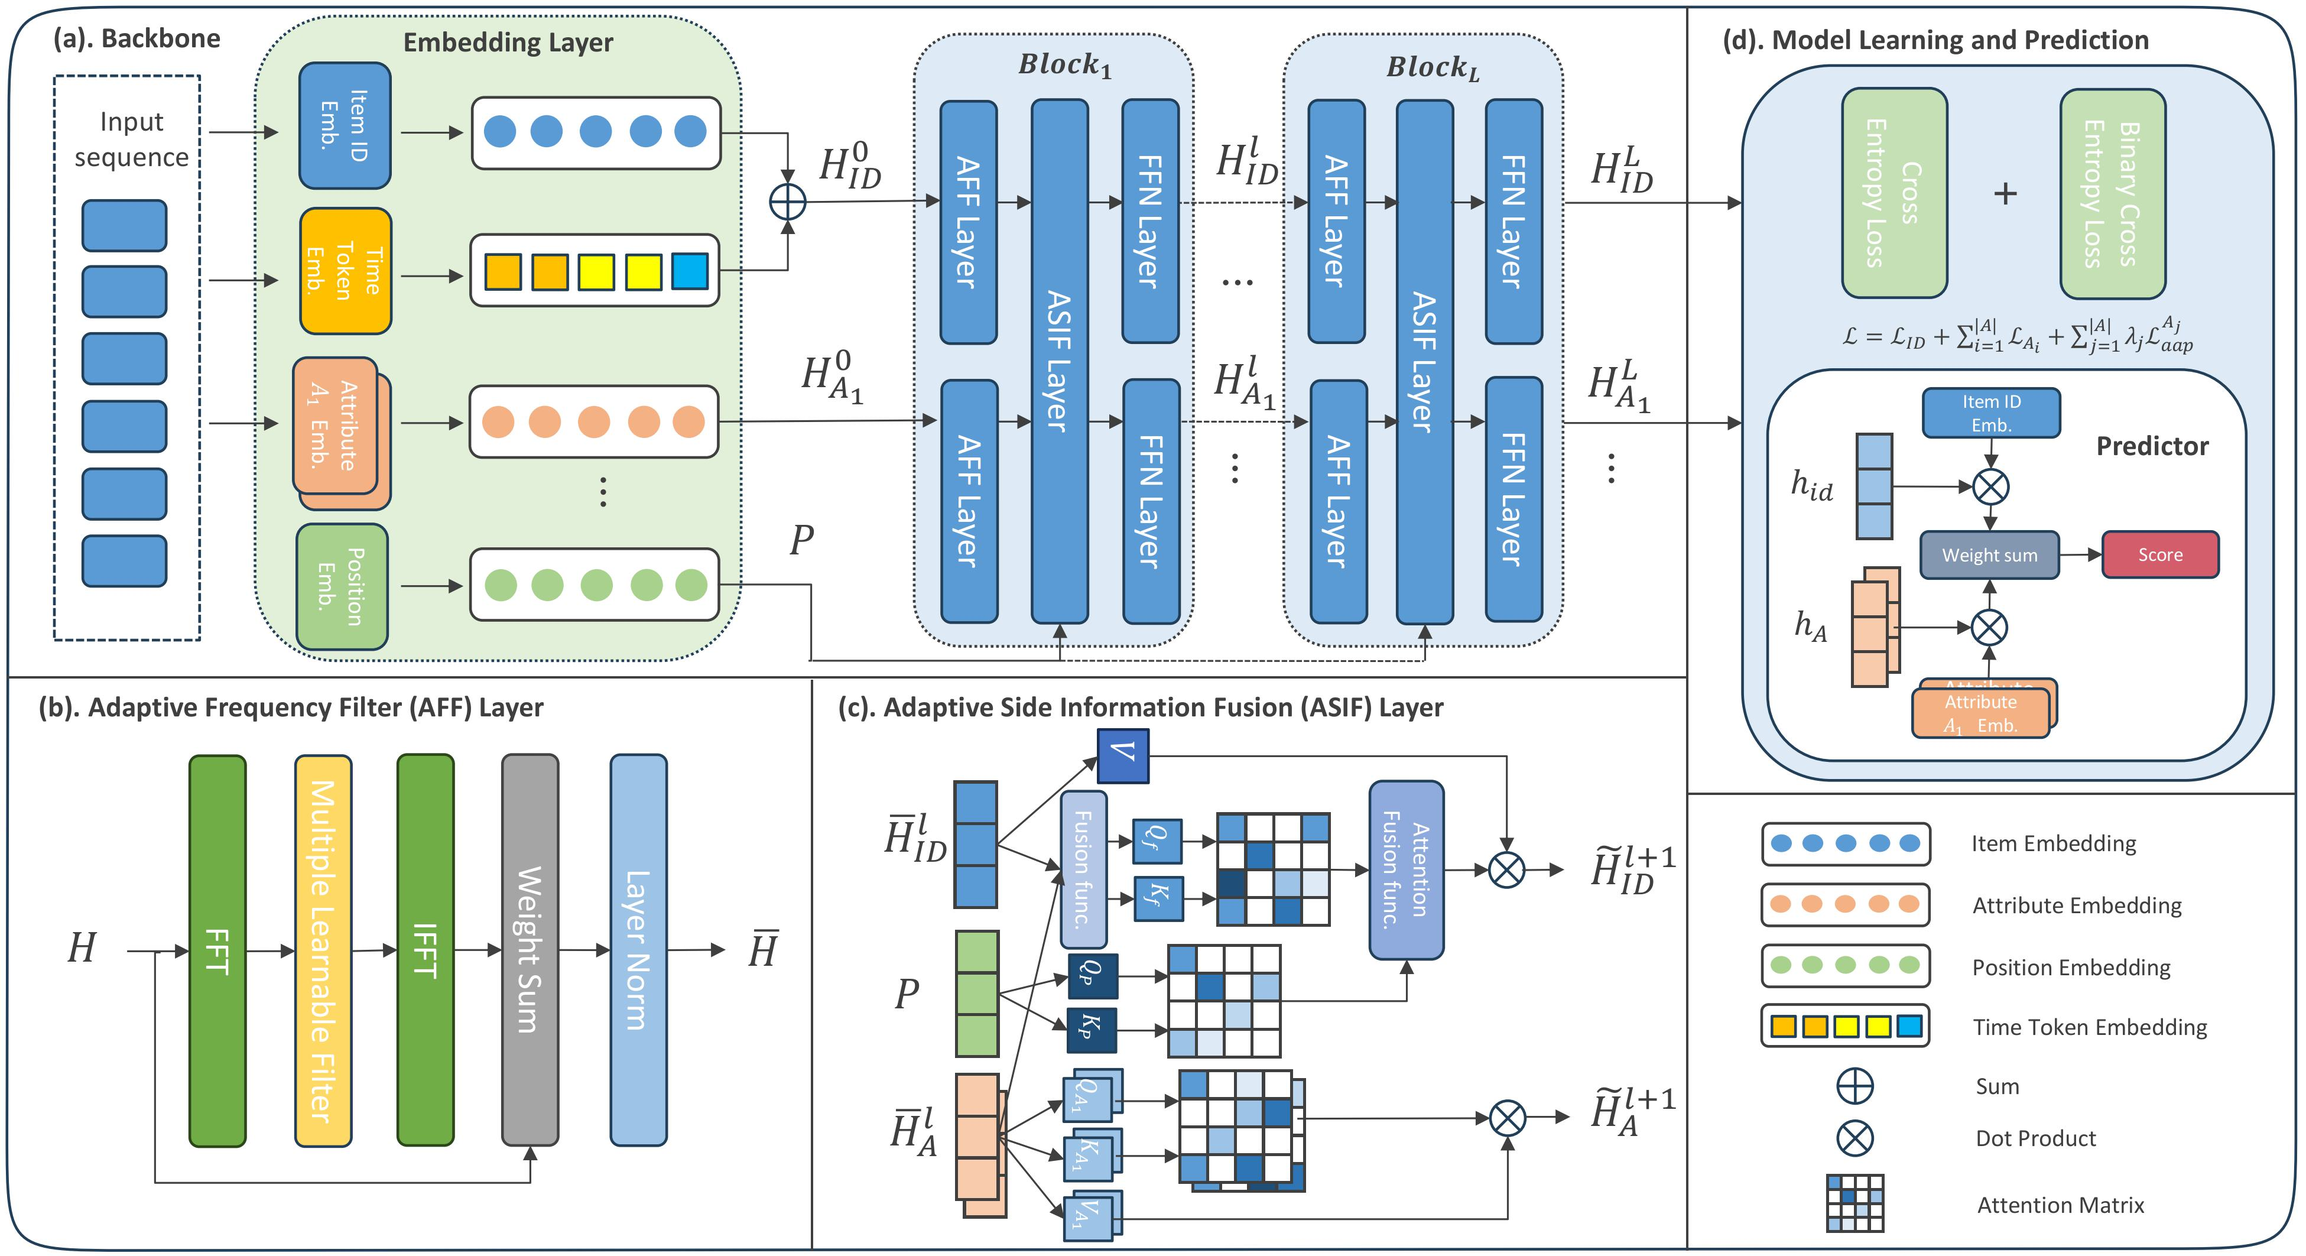
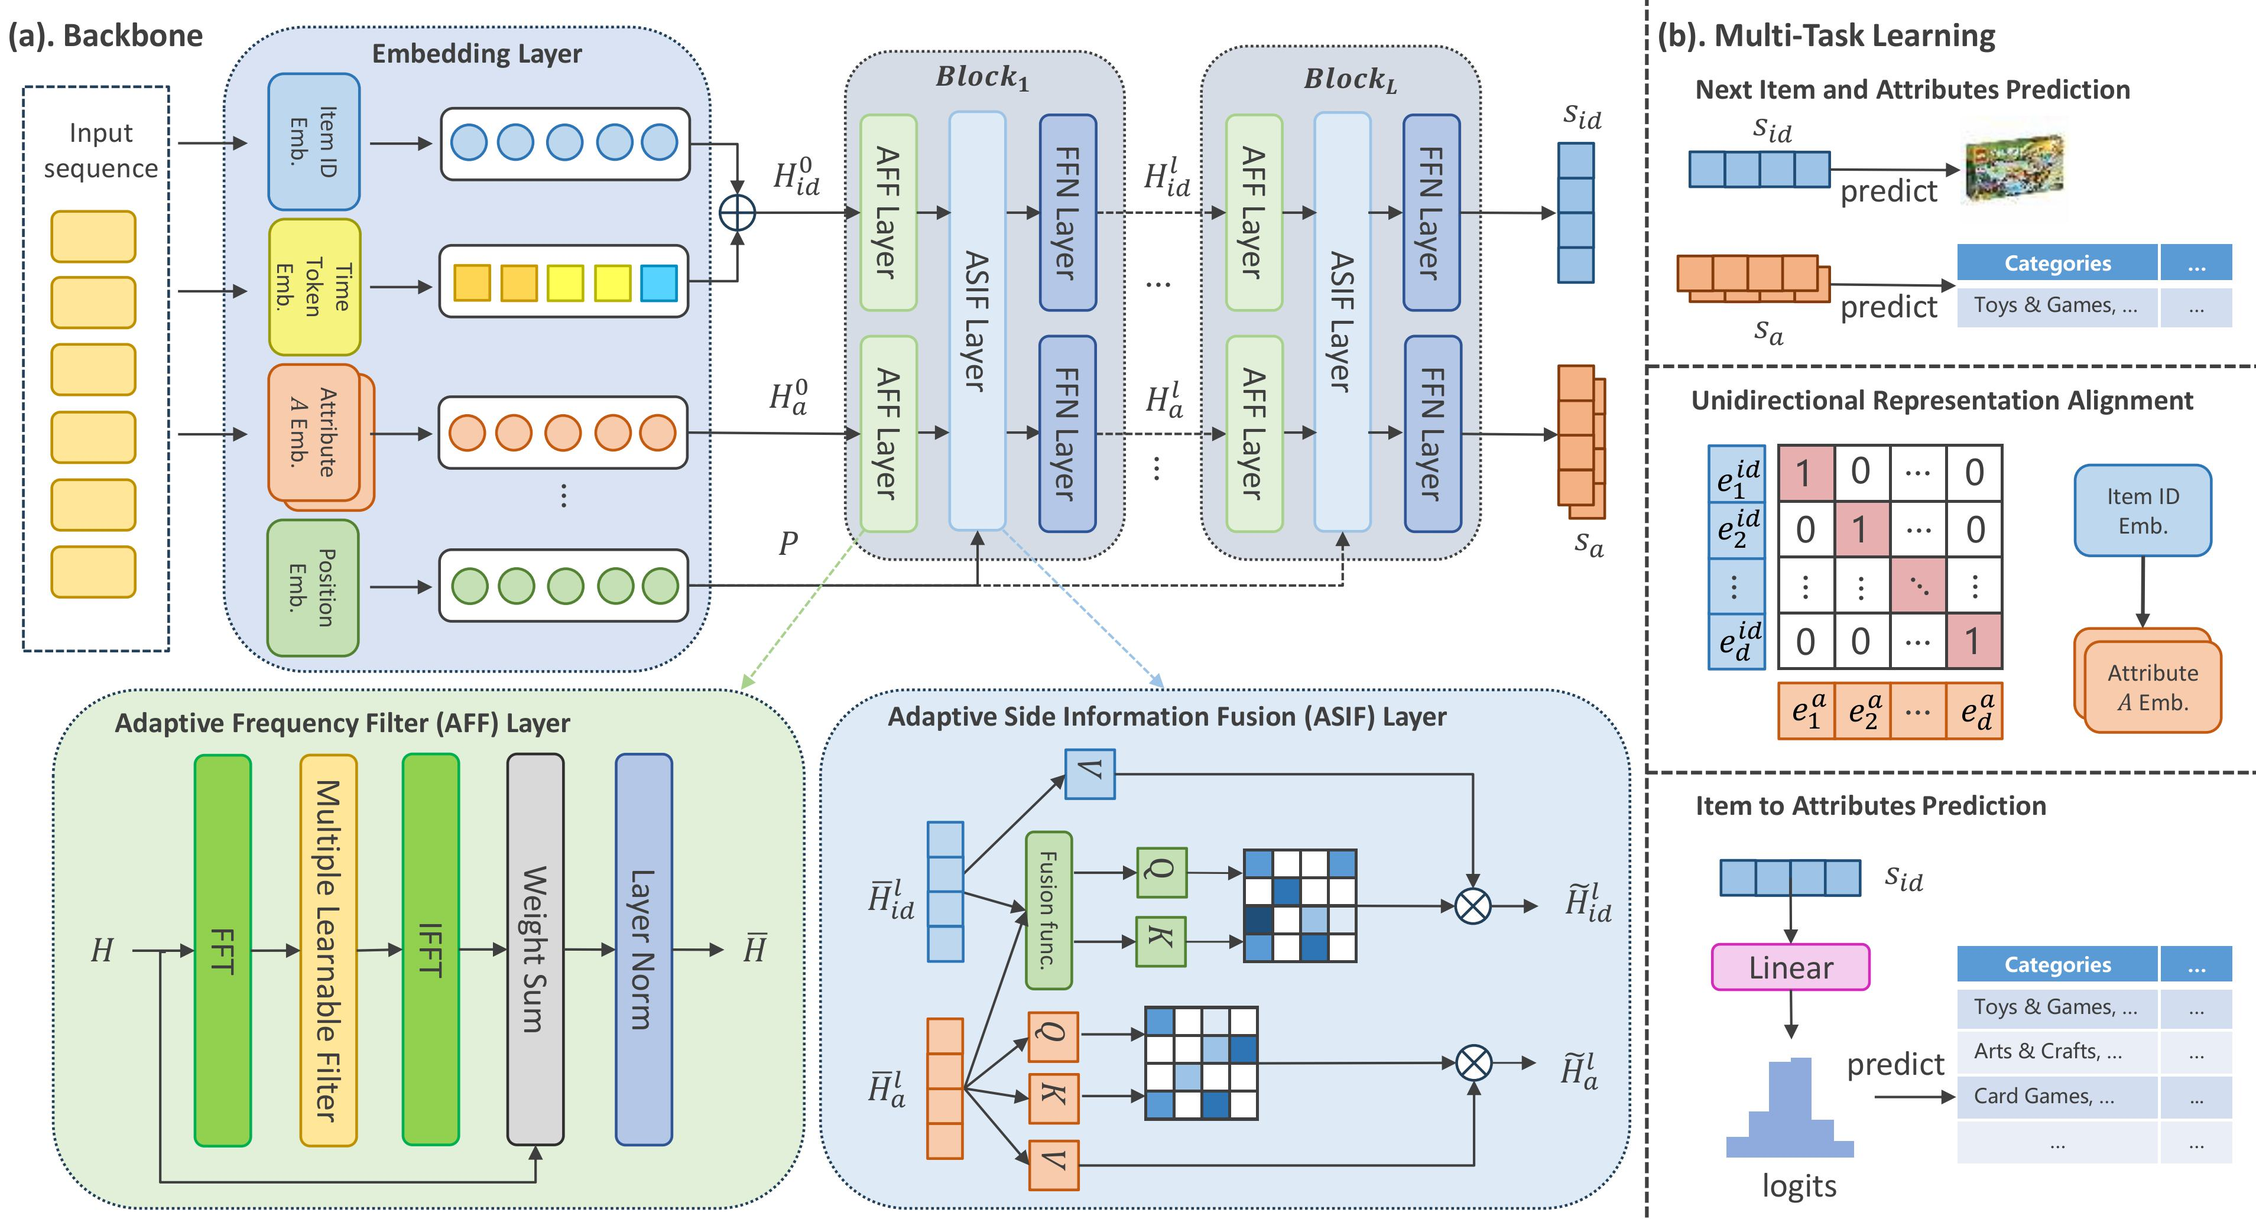
update

diff --git a/recbole/model/sequential_recommender/tasif.py b/recbole/model/sequential_recommender/tasif.py
@@ -59,19 +59,7 @@ class FilterLayer(nn.Module):
         return hidden_states
     
 class TASIFMultiHeadAttention(nn.Module):
-    """
-    DIF Multi-head Self-attention layers, a attention score dropout layer is introduced.
-
-    Args:
-        input_tensor (torch.Tensor): the input of the multi-head self-attention layer
-        attention_mask (torch.Tensor): the attention mask for input tensor
-
-    Returns:
-        hidden_states (torch.Tensor): the output of the multi-head self-attention layer
-
-    """
-
-    def __init__(self, n_heads, hidden_size,attribute_hidden_size,feat_num, hidden_dropout_prob, attn_dropout_prob, layer_norm_eps, attn_fusion_type, emb_fusion_type, max_len):
+    def __init__(self, n_heads, hidden_size,attribute_hidden_size,feat_num, hidden_dropout_prob, attn_dropout_prob, layer_norm_eps, fusion_type, max_len):
         super(TASIFMultiHeadAttention, self).__init__()
         if hidden_size % n_heads != 0:
             raise ValueError(
@@ -84,38 +72,23 @@ class TASIFMultiHeadAttention(nn.Module):
         self.all_head_size = self.num_attention_heads * self.attention_head_size
         self.attribute_attention_head_size = [int(_ / n_heads) for _ in attribute_hidden_size]
         self.attribute_all_head_size = [self.num_attention_heads * _ for _ in self.attribute_attention_head_size]
-        self.attn_fusion_type = attn_fusion_type
         self.max_len = max_len
-        self.emb_fusion_type = emb_fusion_type
+        self.fusion_type = fusion_type
 
         self.value = nn.Linear(hidden_size, self.all_head_size)
-
-        self.query_p = nn.Linear(hidden_size, self.all_head_size)
-        self.key_p = nn.Linear(hidden_size, self.all_head_size)
-
-
-        if self.emb_fusion_type == 'concat':
-            self.query_f = nn.Linear(hidden_size*(feat_num+1), self.all_head_size)
-            self.key_f = nn.Linear(hidden_size*(feat_num+1), self.all_head_size)
-            self.value_f = nn.Linear(hidden_size*(feat_num+1), self.all_head_size)
-        else:
-            self.query_f = nn.Linear(hidden_size, self.all_head_size)
-            self.key_f = nn.Linear(hidden_size, self.all_head_size)
-            self.value_f = nn.Linear(hidden_size, self.all_head_size)
+        self.query_f = nn.Linear(hidden_size, self.all_head_size)
+        self.key_f = nn.Linear(hidden_size, self.all_head_size)
 
         self.feat_num = feat_num
         self.query_layers = nn.ModuleList([copy.deepcopy(nn.Linear(attribute_hidden_size[_], self.attribute_all_head_size[_])) for _ in range(self.feat_num)])
         self.key_layers = nn.ModuleList([copy.deepcopy(nn.Linear(attribute_hidden_size[_], self.attribute_all_head_size[_])) for _ in range(self.feat_num)])
         self.value_layers = nn.ModuleList([copy.deepcopy(nn.Linear(attribute_hidden_size[_], self.attribute_all_head_size[_])) for _ in range(self.feat_num)])
-
-        self.tensor_fusion_layer = nn.Linear(hidden_size * (1 + self.feat_num), hidden_size)
-        if self.emb_fusion_type == 'gate':
+        
+        if self.fusion_type == 'concat':
+            self.tensor_fusion_layer = nn.Linear(hidden_size * (2 + self.feat_num), hidden_size)
+        elif self.fusion_type == 'gate':
             self.tensor_fusion_layer = GatingFusor(hidden_size)
 
-        if self.attn_fusion_type == 'concat':
-            self.fusion_layer = nn.Linear(self.max_len*2, self.max_len)
-        elif self.attn_fusion_type == 'gate':
-            self.fusion_layer = VanillaAttention(self.max_len,self.max_len)
         self.attn_dropout = nn.Dropout(attn_dropout_prob)
 
         self.dense = nn.Linear(hidden_size, hidden_size)
@@ -159,26 +132,21 @@ class TASIFMultiHeadAttention(nn.Module):
     def forward(self, input_tensor, attribute_table, position_embedding, attention_mask):
         item_value_layer = self.transpose_for_scores(self.value(input_tensor))
 
-        pos_query_layer = self.transpose_for_scores(self.query_p(position_embedding))
-        pos_key_layer = self.transpose_for_scores(self.key_p(position_embedding))
-
-        if self.emb_fusion_type == 'sum':
-            fusion_tensor = input_tensor + torch.sum(torch.cat(attribute_table, dim=-2), dim=-2)
-        elif self.emb_fusion_type == 'gate':
-            attr_tensor = torch.cat(attribute_table, dim=-1)
-            fusion_tensor = torch.cat([input_tensor.unsqueeze(-2), attr_tensor], dim=-2)
-            fusion_tensor = self.tensor_fusion_layer(fusion_tensor)
-        else:
+        if self.fusion_type == 'sum':
+            fusion_tensor = input_tensor + torch.sum(torch.cat(attribute_table, dim=-2), dim=-2) + position_embedding
+        elif self.fusion_type == 'concat':
             attr_tensor = torch.cat(attribute_table, dim=-1).squeeze(-2)
-            fusion_tensor = torch.cat((input_tensor, attr_tensor), dim=-1)
-            if self.emb_fusion_type == 'linear':
-                fusion_tensor = self.tensor_fusion_layer(fusion_tensor)
+            fusion_tensor = torch.cat((input_tensor, attr_tensor, position_embedding), dim=-1)
+            fusion_tensor = self.tensor_fusion_layer(fusion_tensor)
+        elif self.fusion_type == 'gate':
+            attr_tensor = torch.cat(attribute_table, dim=-2)
+            fusion_tensor = torch.cat([input_tensor.unsqueeze(-2), attr_tensor, position_embedding.unsqueeze(-2)], dim=-2)
+            fusion_tensor = self.tensor_fusion_layer(fusion_tensor)
 
         fusion_query_layer = self.transpose_for_scores(self.query_f(fusion_tensor))
         fusion_key_layer = self.transpose_for_scores(self.key_f(fusion_tensor))
 
         fusion_attention_scores = torch.matmul(fusion_query_layer, fusion_key_layer.transpose(-1, -2))
-        pos_scores = torch.matmul(pos_query_layer, pos_key_layer.transpose(-1, -2))
 
         attribute_hidden_states_table = []
         for i, (attribute_query, attribute_key, attribute_value, attr_dense, attr_layernorm) in enumerate(
@@ -191,40 +159,17 @@ class TASIFMultiHeadAttention(nn.Module):
             attribute_hidden_states = self.compute(attribute_tensor, attribute_value_layer, attribute_attention_scores, attention_mask, attr_dense, attr_layernorm)
             attribute_hidden_states_table.append(attribute_hidden_states.unsqueeze(-2))
 
-        if self.attn_fusion_type == 'sum':
-            attention_scores = fusion_attention_scores + pos_scores
-        elif self.attn_fusion_type == 'concat':
-            attention_scores = torch.cat([fusion_attention_scores, pos_scores], dim=-1)
-            attention_scores = self.fusion_layer(attention_scores)
-        elif self.attn_fusion_type == 'gate':
-            attention_scores = torch.cat([fusion_attention_scores.unsqueeze(-2), pos_scores.unsqueeze(-2)], dim=-2)
-            attention_scores,_ = self.fusion_layer(attention_scores)
-
-        item_hidden_states = self.compute(input_tensor, item_value_layer, attention_scores, attention_mask, self.dense, self.LayerNorm)
-
+        item_hidden_states = self.compute(input_tensor, item_value_layer, fusion_attention_scores, attention_mask, self.dense, self.LayerNorm)
         return item_hidden_states, attribute_hidden_states_table
 
 class TASIFTransformerLayer(nn.Module):
-    """
-    One decoupled transformer layer consists of a decoupled multi-head self-attention layer and a point-wise feed-forward layer.
-
-    Args:
-        hidden_states (torch.Tensor): the input of the multi-head self-attention sublayer
-        attention_mask (torch.Tensor): the attention mask for the multi-head self-attention sublayer
-
-    Returns:
-        feedforward_output (torch.Tensor): The output of the point-wise feed-forward sublayer,
-                                           is the output of the transformer layer.
-
-    """
-
     def __init__(
         self, n_heads, hidden_size,attribute_hidden_size,feat_num, intermediate_size, hidden_dropout_prob, attn_dropout_prob, hidden_act,
-        layer_norm_eps, attn_fusion_type, emb_fusion_type, max_len, filter_weight, filter_dropout_prob 
+        layer_norm_eps, fusion_type, max_len, filter_weight, filter_dropout_prob 
     ):
         super(TASIFTransformerLayer, self).__init__()
         self.multi_head_attention = TASIFMultiHeadAttention(
-            n_heads, hidden_size, attribute_hidden_size, feat_num, hidden_dropout_prob, attn_dropout_prob, layer_norm_eps, attn_fusion_type, emb_fusion_type, max_len,
+            n_heads, hidden_size, attribute_hidden_size, feat_num, hidden_dropout_prob, attn_dropout_prob, layer_norm_eps, fusion_type, max_len,
         )
         self.feed_forward = FeedForward(hidden_size, intermediate_size, hidden_dropout_prob, hidden_act, layer_norm_eps)
         self.attr_feed_forward = nn.ModuleList([copy.deepcopy(FeedForward(attribute_hidden_size[_], intermediate_size, hidden_dropout_prob, hidden_act, layer_norm_eps)) for _ in range(feat_num)])
@@ -245,24 +190,6 @@ class TASIFTransformerLayer(nn.Module):
         return feedforward_output, feedforward_attribute_output
 
 class TASIFTransformerEncoder(nn.Module):
-    r""" One decoupled TransformerEncoder consists of several decoupled TransformerLayers.
-
-        - n_layers(num): num of transformer layers in transformer encoder. Default: 2
-        - n_heads(num): num of attention heads for multi-head attention layer. Default: 2
-        - hidden_size(num): the input and output hidden size. Default: 64
-        - attribute_hidden_size(list): the hidden size of attributes. Default:[64]
-        - feat_num(num): the number of attributes. Default: 1
-        - inner_size(num): the dimensionality in feed-forward layer. Default: 256
-        - hidden_dropout_prob(float): probability of an element to be zeroed. Default: 0.5
-        - attn_dropout_prob(float): probability of an attention score to be zeroed. Default: 0.5
-        - hidden_act(str): activation function in feed-forward layer. Default: 'gelu'
-                      candidates: 'gelu', 'relu', 'swish', 'tanh', 'sigmoid'
-        - layer_norm_eps(float): a value added to the denominator for numerical stability. Default: 1e-12
-        - fusion_type(str): fusion function used in attention fusion module. Default: 'sum'
-                            candidates: 'sum','concat','gate'
-
-    """
-
     def __init__(
         self,
         n_layers=2,
@@ -275,8 +202,7 @@ class TASIFTransformerEncoder(nn.Module):
         attn_dropout_prob=0.5,
         hidden_act='gelu',
         layer_norm_eps=1e-12,
-        attn_fusion_type = 'sum',
-        emb_fusion_type = 'sum',
+        fusion_type = 'sum',
         max_len = None, 
         filter_weight = None,
         filter_dropout_prob = None
@@ -285,11 +211,11 @@ class TASIFTransformerEncoder(nn.Module):
         super(TASIFTransformerEncoder, self).__init__()
         layer = TASIFTransformerLayer(
             n_heads, hidden_size,attribute_hidden_size,feat_num, inner_size, hidden_dropout_prob, attn_dropout_prob,
-            hidden_act, layer_norm_eps, attn_fusion_type, emb_fusion_type, max_len, filter_weight, filter_dropout_prob 
+            hidden_act, layer_norm_eps, fusion_type, max_len, filter_weight, filter_dropout_prob 
         )
         self.layer = nn.ModuleList([copy.deepcopy(layer) for _ in range(n_layers)])
 
-    def forward(self, hidden_states, attribute_hidden_states,position_embedding, attention_mask, output_all_encoded_layers=True):
+    def forward(self, hidden_states, attribute_hidden_states, position_embedding, attention_mask, output_all_encoded_layers=True):
         """
         Args:
             hidden_states (torch.Tensor): the input of the TransformerEncoder
@@ -312,11 +238,6 @@ class TASIFTransformerEncoder(nn.Module):
         return all_encoder_layers
 
 class TASIF(SequentialRecommender):
-    """
-    DIF-SR moves the side information from the input to the attention layer and decouples the attention calculation of
-    various side information and item representation
-    """
-
     def __init__(self, config, dataset):
         super(TASIF, self).__init__(config, dataset)
         self.config = config
@@ -339,8 +260,7 @@ class TASIF(SequentialRecommender):
 
         self.initializer_range = config['initializer_range']
         self.loss_type = config['loss_type']
-        self.attn_fusion_type = config['attn_fusion_type']
-        self.emb_fusion_type = config['emb_fusion_type']
+        self.fusion_type = config['fusion_type']
 
         self.lamdas = config['lamdas']
         self.attribute_predictor = config['attribute_predictor']
@@ -365,8 +285,7 @@ class TASIF(SequentialRecommender):
             attn_dropout_prob=self.attn_dropout_prob,
             hidden_act=self.hidden_act,
             layer_norm_eps=self.layer_norm_eps,
-            attn_fusion_type=self.attn_fusion_type,
-            emb_fusion_type=self.emb_fusion_type,
+            fusion_type=self.fusion_type,
             max_len=self.max_seq_length,
             filter_weight=self.config['filter_weight'],
             filter_dropout_prob=self.config['filter_dropout_prob']
@@ -391,6 +310,8 @@ class TASIF(SequentialRecommender):
 
         self.LayerNorm = nn.LayerNorm(self.hidden_size, eps=self.layer_norm_eps)
         self.dropout = nn.Dropout(self.hidden_dropout_prob)
+
+        self.attribute_weight = nn.Parameter(torch.ones(len(self.selected_features)), requires_grad=True)
 
         if self.loss_type == 'BPR':
             self.loss_fct = BPRLoss()
@@ -503,14 +424,20 @@ class TASIF(SequentialRecommender):
 
             attr_emb_table = self.get_attr_emb()
             al_loss = 0.0
+            cl_loss = 0.0
+            weights = torch.softmax(self.attribute_weight, dim=0)
             for i, (attribute_seq_output, atrribute_emb) in enumerate(zip(attribute_seq_output_table, attr_emb_table)):
                 atrribute_emb = atrribute_emb.squeeze(-2)                
                 attr_logits = torch.matmul(attribute_seq_output, atrribute_emb.transpose(0, 1))
+                al_loss += weights[i] * self.loss_fct(attr_logits, pos_items)
+                cl_loss += weights[i] * self.InfoNCE(test_item_emb[torch.unique(pos_items)], atrribute_emb[torch.unique(pos_items)], 0.2)
 
-                al_loss += self.config['al_weight'][i] * self.loss_fct(attr_logits, pos_items)
+            # attr_emb_all = torch.sum(torch.cat(attr_emb_table, dim=-2), dim=-2) 
+            # cl_loss = self.InfoNCE(test_item_emb[torch.unique(pos_items)], attr_emb_all[torch.unique(pos_items)], 0.2) + self.InfoNCE(attr_emb_all[torch.unique(pos_items)], test_item_emb[torch.unique(pos_items)], 0.2)
 
-            if self.attribute_predictor!='' and self.attribute_predictor!='not':
-                loss_dic = {'item_loss':loss}
+            total_loss = loss + self.config['al_weight'] * al_loss + self.config['cl_weight'] * cl_loss
+            if self.attribute_predictor !='' and self.attribute_predictor != 'not':
+                loss_dic = {}
                 attribute_loss_sum = 0
                 for i, a_predictor in enumerate(self.ap):
                     attribute_logits = a_predictor(seq_output)
@@ -524,21 +451,11 @@ class TASIF(SequentialRecommender):
                     attribute_loss = self.attribute_loss_fct(attribute_logits, attribute_labels)
                     attribute_loss = torch.mean(attribute_loss[:, 1:])
                     loss_dic[self.selected_features[i]] = attribute_loss
-                if self.num_feature_field == 1:
-                    total_loss = loss + self.lamdas[0] * attribute_loss
-                    # print('total_loss:{}\titem_loss:{}\tattribute_{}_loss:{}'.format(total_loss, loss,self.selected_features[0],attribute_loss))
-                else:
-                    for i,attribute in enumerate(self.selected_features):
-                        attribute_loss_sum += self.lamdas[i] * loss_dic[attribute]
-                    total_loss = loss + attribute_loss_sum
-                    loss_dic['total_loss'] = total_loss
-                    # s = ''
-                    # for key,value in loss_dic.items():
-                    #     s += '{}_{:.4f}\t'.format(key,value.item())
-                    # print(s)
-            else:
-                total_loss = loss
-            return total_loss + al_loss
+
+                for i,attribute in enumerate(self.selected_features):
+                    attribute_loss_sum += weights[i] * loss_dic[attribute]
+                total_loss += self.lamdas * attribute_loss_sum
+            return total_loss
 
     def predict(self, interaction):
         item_seq = interaction[self.ITEM_SEQ]
@@ -560,10 +477,11 @@ class TASIF(SequentialRecommender):
         atrribute_emb_table = self.get_attr_emb()
 
         atrribute_scores_table = []
+        weights = torch.softmax(self.attribute_weight, dim=0)
         for i, (attribute_seq_output, atrribute_emb) in enumerate(zip(attribute_seq_output_table, atrribute_emb_table)):
             atrribute_emb = atrribute_emb.squeeze(-2)                
             atrribute_scores = torch.matmul(attribute_seq_output, atrribute_emb.transpose(0, 1))
-            atrribute_scores_table.append(self.config['attr_score_weight'][i] * atrribute_scores)
+            atrribute_scores_table.append(weights[i] * atrribute_scores)
         atrribute_scores = torch.stack(atrribute_scores_table).sum(dim=0)
-        scores = (1 - sum(self.config['attr_score_weight'])) * scores + atrribute_scores
+        scores = (1 - self.config['attr_score_weight']) * scores + self.config['attr_score_weight'] * atrribute_scores
         return scores
